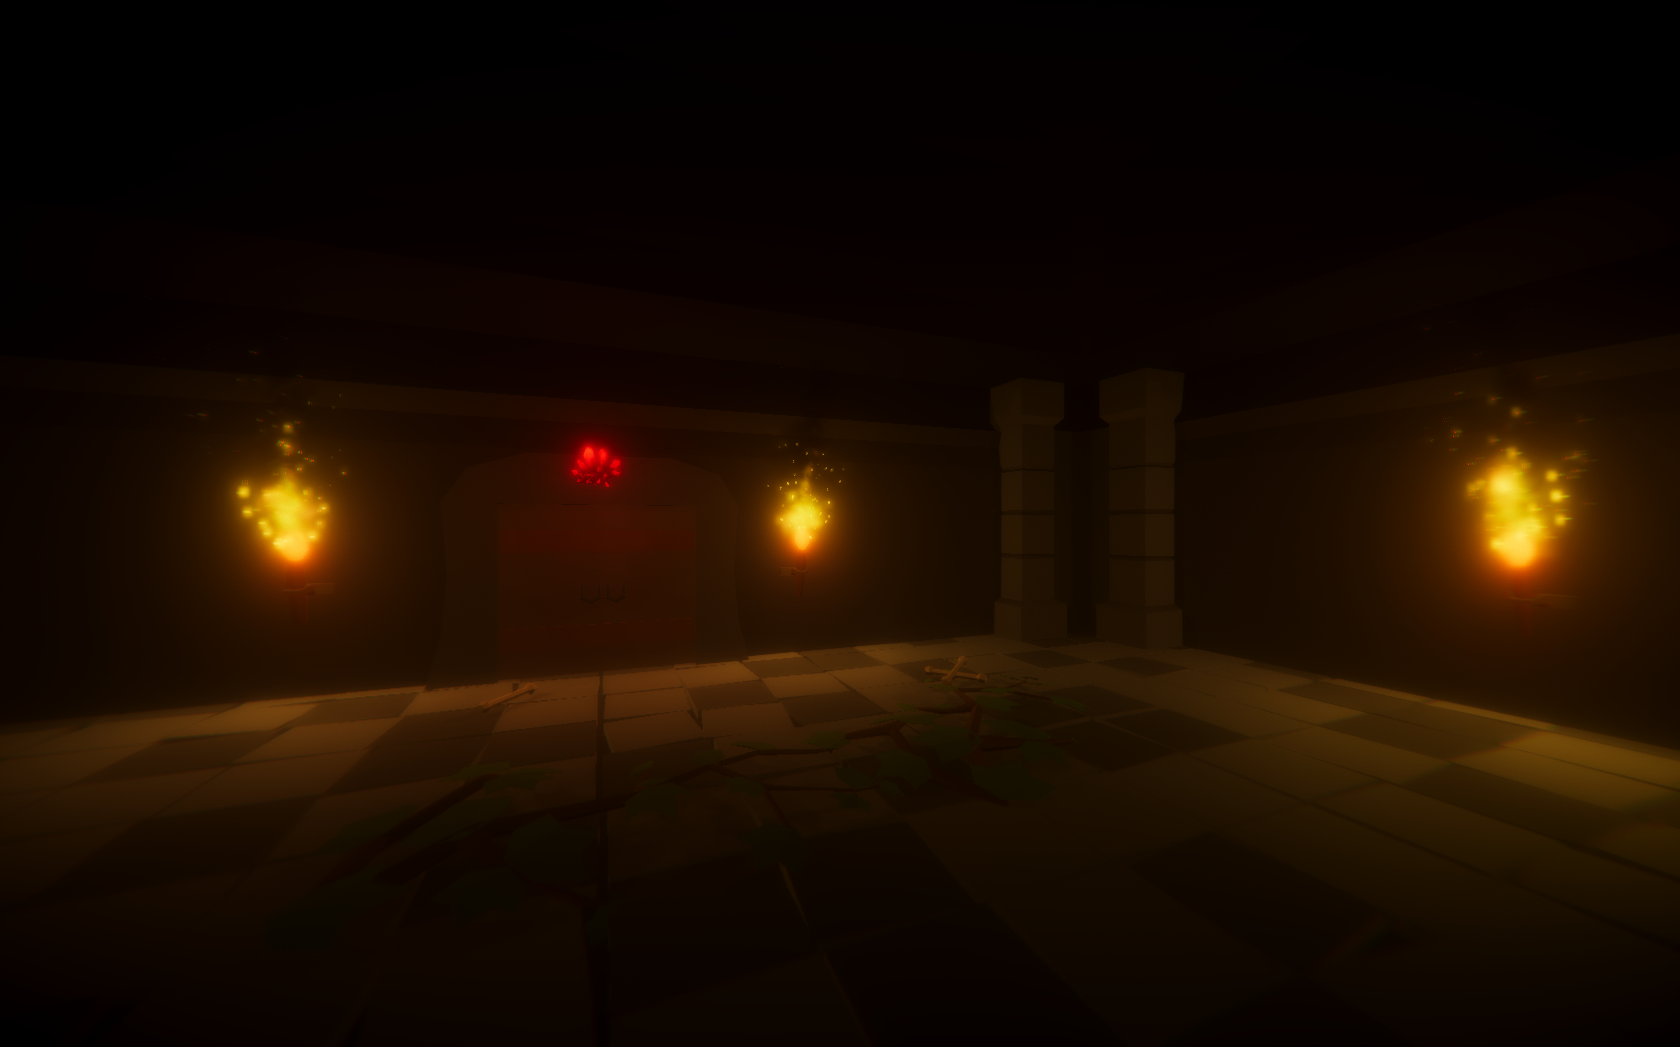
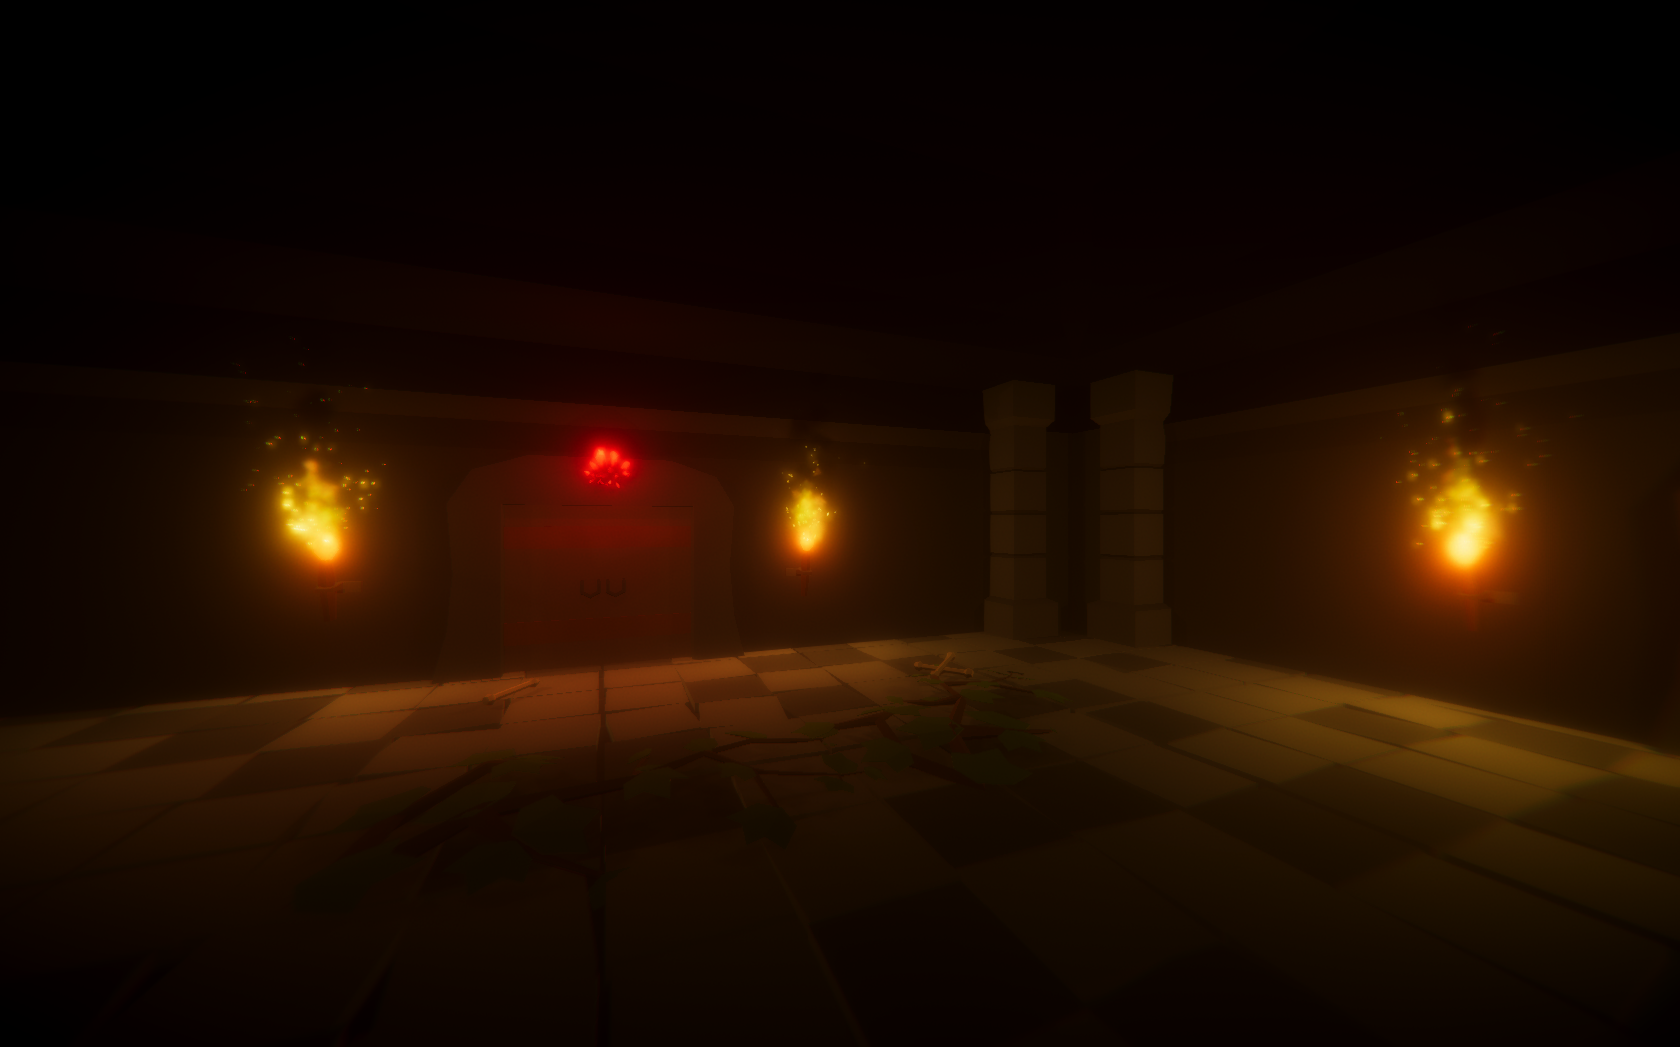
PaintComponent

diff --git a/Mickaël/GalerieChangementCL.java b/Mickaël/GalerieChangementCL.java
@@ -8,6 +8,7 @@ public class GalerieChangementCL
 	private GalerieEventCL mouse;
 	private CardLayout cardl;
 	private JPanel galeriePanel = new JPanel();
+	private ImageDonjon[] imageD = new ImageDonjon[16];
 	private int indice = 0;
 	private GalerieThread[] gt =  new GalerieThread[4];
 	private Thread thread;
@@ -17,9 +18,10 @@ public class GalerieChangementCL
 		this.fenetre = jf;
 		this.cardl = new CardLayout();
 		this.galeriePanel.setLayout(this.cardl);
-		for(int i = 0; i <= 15;i++)
+		for(int i = 0; i < 16;i++)
 		{
-			this.galeriePanel.add(new JLabel(new ImageIcon("../ProjetIHM/res/images/Salles/image"+i+".png")),"image"+i);
+			imageD[i] = new ImageDonjon(new ImageIcon("../ProjetIHM/res/images/Salles/image"+i+".png"),new ImageIcon("../ProjetIHM/res/images/Salles/fermer"+((i+2)%4)+".png"));
+			this.galeriePanel.add(imageD[i],"image"+i);
 		}
 		fenetre.add(this.galeriePanel,BorderLayout.CENTER);
 		mouse = new GalerieEventCL(this,jf);
@@ -31,7 +33,7 @@ public class GalerieChangementCL
 		for(int i = 0;i < 4;i++)
 		{
 			gt[i] = new GalerieThread(this,state,((long)i+1)*100);
-			thread =  new Thread(gt[i]);
+			thread = new Thread(gt[i]);
 			thread.start();
 		}		
     }

diff --git a/Mickaël/ImageDonjon.java b/Mickaël/ImageDonjon.java
@@ -1,0 +1,27 @@
+import javax.swing.*;
+import javax.swing.JComponent;
+import java.awt.*;
+
+public class ImageDonjon extends JComponent
+{
+	private ImageIcon imageBase;
+	private ImageIcon imageFermer;
+	
+	public ImageDonjon(ImageIcon b,ImageIcon f)
+	{
+		this.imageBase = b;
+		this.imageFermer = f;
+	}
+
+	protected void paintComponent(Graphics pinceau) 
+  	{
+		Graphics secondPinceau = pinceau.create();
+		if (this.isOpaque()) 
+    	{
+      		secondPinceau.setColor(new Color(0,0,0));
+      		secondPinceau.fillRect(0, 0, this.getWidth(), this.getHeight());
+        }
+		secondPinceau.drawImage(imageBase.getImage(), 0, 0, getWidth(), getHeight(), this);
+		secondPinceau.drawImage(imageFermer.getImage(), 0, 0, getWidth(), getHeight(), this);
+	}
+}
